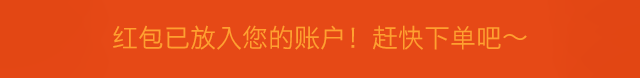
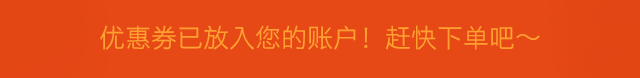
红包->优惠券

Changed region(s): [[0.1562, 0.3333, 0.8438, 0.641]]

diff --git a/webapp/activities/pubhtml/coupon_got.html b/webapp/activities/pubhtml/coupon_got.html
@@ -127,7 +127,7 @@
     <div id="editor_component_3" data-tpl="image" class="component bg3"
          style="overflow: hidden; height: 100px; position: relative; z-index: 1;">
         <div class="am-vertical-align" style="width: 640px; height: 100px;">
-            <a class="am-vertical-align-middle am-btn yac-coupon-got-btn">快去使用红包吧</a>
+            <a class="am-vertical-align-middle am-btn yac-coupon-got-btn">快去使用优惠券吧</a>
         </div>
     </div>
     <div id="editor_component_4" data-tpl="image" class="component bg4"
